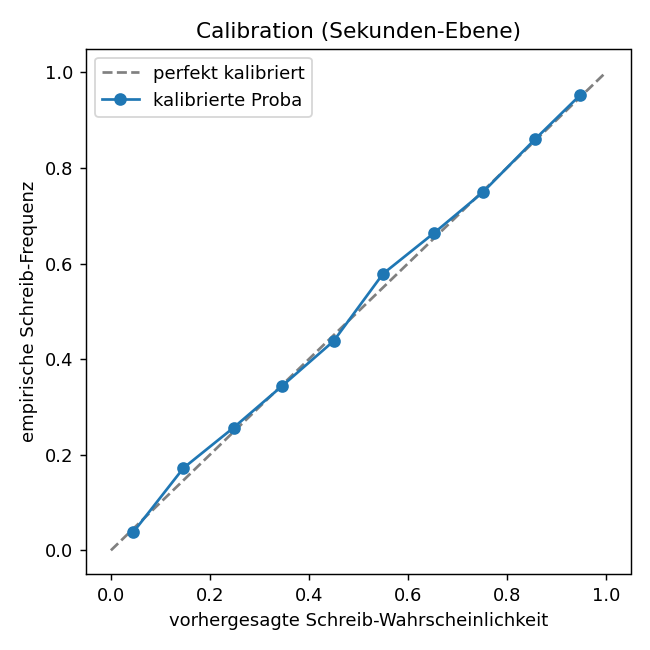
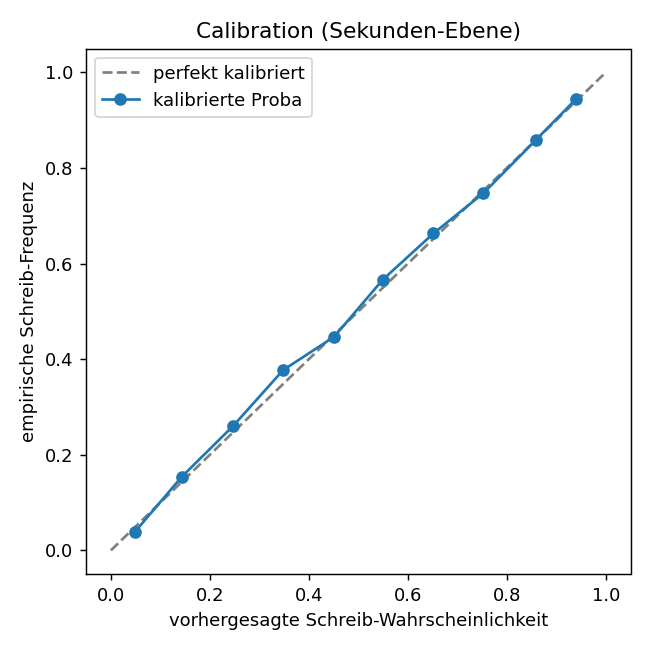
docs: Headline auf N=14 promoted (CLAUDE.md, README, Regression/Engagement-Refresh)
Kanonische Artefakte (rf_all.joblib, rf_all_live.joblib, loso_cv.csv,
loso_oof.csv) auf N=14 retrainiert via --pool legacy --no-pool-suffix.
Neue Headline: acc 0.855 ± 0.034, AUC 0.929 ± 0.034, F1(w) 0.862;
@user 0.899/0.962, @user 0.838/0.917. N=10 als Vorgänger-Headline
dokumentiert. Regression-Refresh: Session-MAE 4,5 pp, 60 s 8,6 pp
(Kohorten-Härte, keine Methodik-Änderung). Engagement-Heatmap jetzt
14 Probanden.

diff --git a/CLAUDE.md b/CLAUDE.md
@@ -30,21 +30,22 @@ cross-validation + Study Mode (counterbalanced protocol runner with
 fullscreen proband UI and VL admin monitor) + Live-Inference im
 Dashboard (Topbar-Pill, Recording-Page-Card, eigener `#focus`-Tab
 mit persistenter Schreibzeit-Aggregation) + Modell-Switcher
-(Personal ↔ Generic) are operational. **Current headline (10-person
-cross-subject LOSO, RF + per-session z-score + `max_gap_ms=2500`
-label closing, **korrigierte Feature-Sortierung** post 2026-05-25):
-accuracy 0.863 ± 0.032, ROC-AUC 0.935 ± 0.032, F1(writing) 0.875.
-Burst-aggregated @5s: acc 0.902 ± 0.035, AUC 0.968 ± 0.030;
-@10s: acc 0.885 ± 0.037, AUC 0.957 ± 0.025; @30s: acc 0.844 ± 0.034,
-AUC 0.922 ± 0.029.** **N=14-Lauf (2026-06-10, P12–P15 als
-50hz-Views via Downsample-Bridge): acc 0.855 ± 0.034, AUC
-0.929 ± 0.034, F1(w) 0.862; @5s 0.899/0.962, @30s 0.838/0.917.
-Rückgang vs. N=10 ist Kohorten-Härte (neue 7 Folds mitteln 0.833,
-alte 7 Folds 0.877 und +0.8 pp vs. N=7-Stand), kein Modell-Regress.
-Ob N=14 die neue Headline wird (inkl. rf_all.joblib-Retrain, das
-Live-Inference/Regression/Engagement konsumieren) ist offen;
-Artefakte: `models/loso_cv_legacy.csv` + `loso_oof_legacy.csv`.**
-Vorgänger-Headlines (vor Sort-Stability-Fix,
+(Personal ↔ Generic) are operational. **Current headline (14-person
+cross-subject LOSO seit 2026-06-10 — 10 Legacy-Probanden + P12–P15
+als 50hz-Views via Downsample-Bridge; RF + per-session z-score +
+`max_gap_ms=2500` label closing): accuracy 0.855 ± 0.034, ROC-AUC
+0.929 ± 0.034, F1(writing) 0.862. Burst-aggregated @5s: acc
+0.899 ± 0.036, AUC 0.962 ± 0.030; @10s: acc 0.882 ± 0.033, AUC
+0.952 ± 0.027; @30s: acc 0.838 ± 0.037, AUC 0.917 ± 0.030.**
+Der Rückgang vs. N=10 (0.863/0.935) ist Kohorten-Härte, kein
+Modell-Regress: die 7 neueren Folds (P07–P15) mitteln 0.833, die 7
+älteren 0.877 und gewannen +0.8 pp vs. N=7-Stand. Kanonische
+Artefakte (`rf_all.joblib`, `rf_all_live.joblib`, `loso_cv.csv`,
+`loso_oof.csv`) sind auf N=14 retrainiert (Promotion via
+`--pool legacy --no-pool-suffix`). Vorgänger-Headlines:
+**10-Probanden (post Sort-Stability-Fix): acc 0.863 ± 0.032 /
+AUC 0.935 ± 0.032 / F1(w) 0.875; @5s 0.902/0.968, @30s 0.844/0.922.**
+Davor (vor Sort-Stability-Fix,
 siehe `reports/sort_stability_bug.md`): 10-Probanden 0.856 / 0.928;
 8-Probanden gap=2500 acc 0.861 ± 0.035 / AUC 0.932 ± 0.035;
 7-Probanden gap=2500 acc 0.868 ± 0.024 / AUC 0.943 ± 0.014;
@@ -163,7 +164,7 @@ Moleskine Smart Pen (BLE)
                     ↓
          data/processed/{session}_windows.csv  (1 row per window)
                     ↓
-       src/training/train_loso.py    (HEADLINE: LOSO by person, N=10,
+       src/training/train_loso.py    (HEADLINE: LOSO by person, N=14,
                                       RF 200 trees + per-session z-score,
                                       class_weight=balanced, then per-
                                       session rolling-mean burst-agg
@@ -183,9 +184,9 @@ Moleskine Smart Pen (BLE)
                                       Z-Score, Live-tauglich)
          models/loso_cv.csv          (per-fold metrics)
                     ↓
-         acc 0.863 ± 0.032  |  AUC 0.935 ± 0.032  |  F1(w) 0.875
-         burst @5s: acc 0.902 / AUC 0.968
-         burst @30s: acc 0.844 / AUC 0.922  (Schreibzeit-tracking)
+         acc 0.855 ± 0.034  |  AUC 0.929 ± 0.034  |  F1(w) 0.862
+         burst @5s: acc 0.899 / AUC 0.962
+         burst @30s: acc 0.838 / AUC 0.917  (Schreibzeit-tracking)
                     ↓
        src/server/inference.py       (Live-Inference-Singleton, lazy
                                       Modell-Load, Rolling-Buffer,
@@ -582,7 +583,9 @@ no longer vibrates continuously when the server is down.
   Wahrscheinlichkeiten (`pred_pct_proba`) schrumpft zur Mitte (~53 %)
   und generalisiert nicht auf schiefe Schreibanteile (siehe
   `reports/regression.md`, Abschnitt „Shrinkage"). Headline binär:
-  Session-MAE 3,5 pp, 60 s 7,6 pp. Der `evaluate()`-Output trennt
+  Session-MAE 4,5 pp, 60 s 8,6 pp (N=14 seit 2026-06-10; bei N=10
+  waren es 3,5 / 7,6 pp — Verschiebung durch die härtere Kohorte,
+  nicht durch Modell-Änderung). Der `evaluate()`-Output trennt
   zwei beschriftete Abschnitte: **HEADLINE** (truth = `closed`
   labels, = Modell-Labels mit Mikropausen ≤2,5 s als writing) und
   **DIAGNOSTIC** (truth = rohe Pen-Down-Samples). `regression_metrics.csv`

diff --git a/reports/regression.md b/reports/regression.md
@@ -190,3 +190,21 @@ sagt 44 %.
 python -m src.training.train_loso --save-oof   # → models/loso_oof.csv
 python -m src.evaluation.regression            # → metrics + Plots
 ```
+
+## Update 2026-06-10 — Refresh auf N=14-OOF
+
+Mit der Headline-Promotion auf N=14 (P12–P15 als 50hz-Views, siehe
+CLAUDE.md) wurde `models/loso_oof.csv` neu erzeugt (25 936 OOF-Zeilen,
+14 Folds) und die Regression neu gerechnet:
+
+| Skala | MAE (N=14) | MAE (N=10, alt) | Bias (N=14) |
+|---|---:|---:|---:|
+| 60 s | 8,6 pp | 7,6 pp | +1,2 pp |
+| 300 s | 7,4 pp | — | +2,2 pp |
+| Session | **4,5 pp** | 3,5 pp | +1,0 pp |
+
+Die Verschiebung ist die härtere Kohorte (P12/P15 in der
+P07/P09-Klasse), keine Modell- oder Methodik-Änderung — Estimator
+bleibt der binäre `mean(proba_cal ≥ 0.5)`, Truth bleibt closed labels.
+Diagnostic-Abschnitt (raw-pen-Truth) zeigt unverändert den inhärenten
+Label-Closing-Bias (~+23 pp).

diff --git a/README.md b/README.md
@@ -174,14 +174,16 @@ python -m src.training.train_loso --by session     # leave-one-session-out fallb
 
 Each fold holds out one subject completely, so the held-out data is never seen during training. By default the script only includes sessions marked `verdict ∈ {trainable, usable}` (use `--include-all` to override).
 
-**Current 10-subject LOSO** with RandomForest + per-session z-score + label closing `max_gap_ms=2500`:
+**Current 14-subject LOSO** with RandomForest + per-session z-score + label closing `max_gap_ms=2500` (10 legacy subjects + 4 modern subjects folded in as anti-aliased 50 Hz views):
 
 | Decision window | Accuracy | ROC-AUC |
 |---|---|---|
-| 1 s (per window) | **0.863 ± 0.032** | **0.935 ± 0.032** — F1(writing) 0.875 |
-| 5 s (burst-agg) | 0.902 ± 0.035 | 0.968 ± 0.030 |
-| 10 s (burst-agg) | 0.885 ± 0.037 | 0.957 ± 0.025 |
-| 30 s (burst-agg) | 0.844 ± 0.034 | 0.922 ± 0.029 |
+| 1 s (per window) | **0.855 ± 0.034** | **0.929 ± 0.034** — F1(writing) 0.862 |
+| 5 s (burst-agg) | 0.899 ± 0.036 | 0.962 ± 0.030 |
+| 10 s (burst-agg) | 0.882 ± 0.033 | 0.952 ± 0.027 |
+| 30 s (burst-agg) | 0.838 ± 0.037 | 0.917 ± 0.030 |
+
+The slight drop vs. the previous 10-subject headline (0.863 / 0.935) is cohort hardness, not model regression: the 7 long-standing folds *gained* +0.8 pp on average from the larger training pool; the 7 newer subjects are simply a harder mix.
 
 The 1-s window is right for *features* (FFT bands, label transitions) but not for an app — a writing-time tracker cares about "has the person written in the last 30 s?", so we report the same fold at 1/5/10/30 s by smoothing the 1-s probabilities per session and re-thresholding at 0.5.
 
@@ -266,7 +268,7 @@ Sync confidence (`sigma_minimal_variance`) is reported as a diagnostic alongside
 
 ## Current Status
 
-The full pipeline is operational end-to-end: capture → alignment → merge → features → training → evaluation → **live inference in the dashboard**. **Headline: 10-subject cross-subject LOSO with RandomForest + per-session z-score + `max_gap_ms=2500` — accuracy 0.863 ± 0.032, ROC-AUC 0.935 ± 0.032, F1(writing) 0.875.** Burst @5s: AUC 0.968; @30s: AUC 0.922. Detailed progression and model-comparison panel in [`reports/model_progression.md`](reports/model_progression.md).
+The full pipeline is operational end-to-end: capture → alignment → merge → features → training → evaluation → **live inference in the dashboard**. **Headline: 14-subject cross-subject LOSO with RandomForest + per-session z-score + `max_gap_ms=2500` — accuracy 0.855 ± 0.034, ROC-AUC 0.929 ± 0.034, F1(writing) 0.862.** Burst @5s: AUC 0.962; @30s: AUC 0.917. Detailed progression and model-comparison panel in [`reports/model_progression.md`](reports/model_progression.md).
 
 **Live deployment.** Inference runs in the server every 1 s (`src/server/inference.py`). The dashboard shows it as a topbar pill, a Recording-page card with sparkline, and a dedicated **Focus** tab with daily/weekly aggregation persisted across restarts. A model picker switches between Personal (`rf_noah`, 100 Hz, no z-score) and Generic (`rf_all_live`, pooled μ/σ baked in for raw-stream use).
 

diff --git a/reports/engagement.md b/reports/engagement.md
@@ -95,3 +95,12 @@ erzeugt schreibähnliche Wrist-IMU-Muster).
 
 Artefakte: `models/engagement_metrics.csv`,
 `reports/figures/engagement_heatmap.png`.
+
+## Update 2026-06-10 — Refresh auf N=14-OOF
+
+Mit der Headline-Promotion auf N=14 wurde `models/engagement_metrics.csv`
++ `reports/figures/engagement_heatmap.png` neu erzeugt — die Heatmap
+umfasst jetzt 14 Probanden inkl. P12–P15 (Study-Mode-Marker vorhanden,
+Fenster-Zuordnung über `t_center_ms` der 50hz-View-Windows). Pausen
+bleiben als Kontrolle sauber (pred_pct überwiegend < 15 %, P14 Pause 2
+sogar 0,0 %).